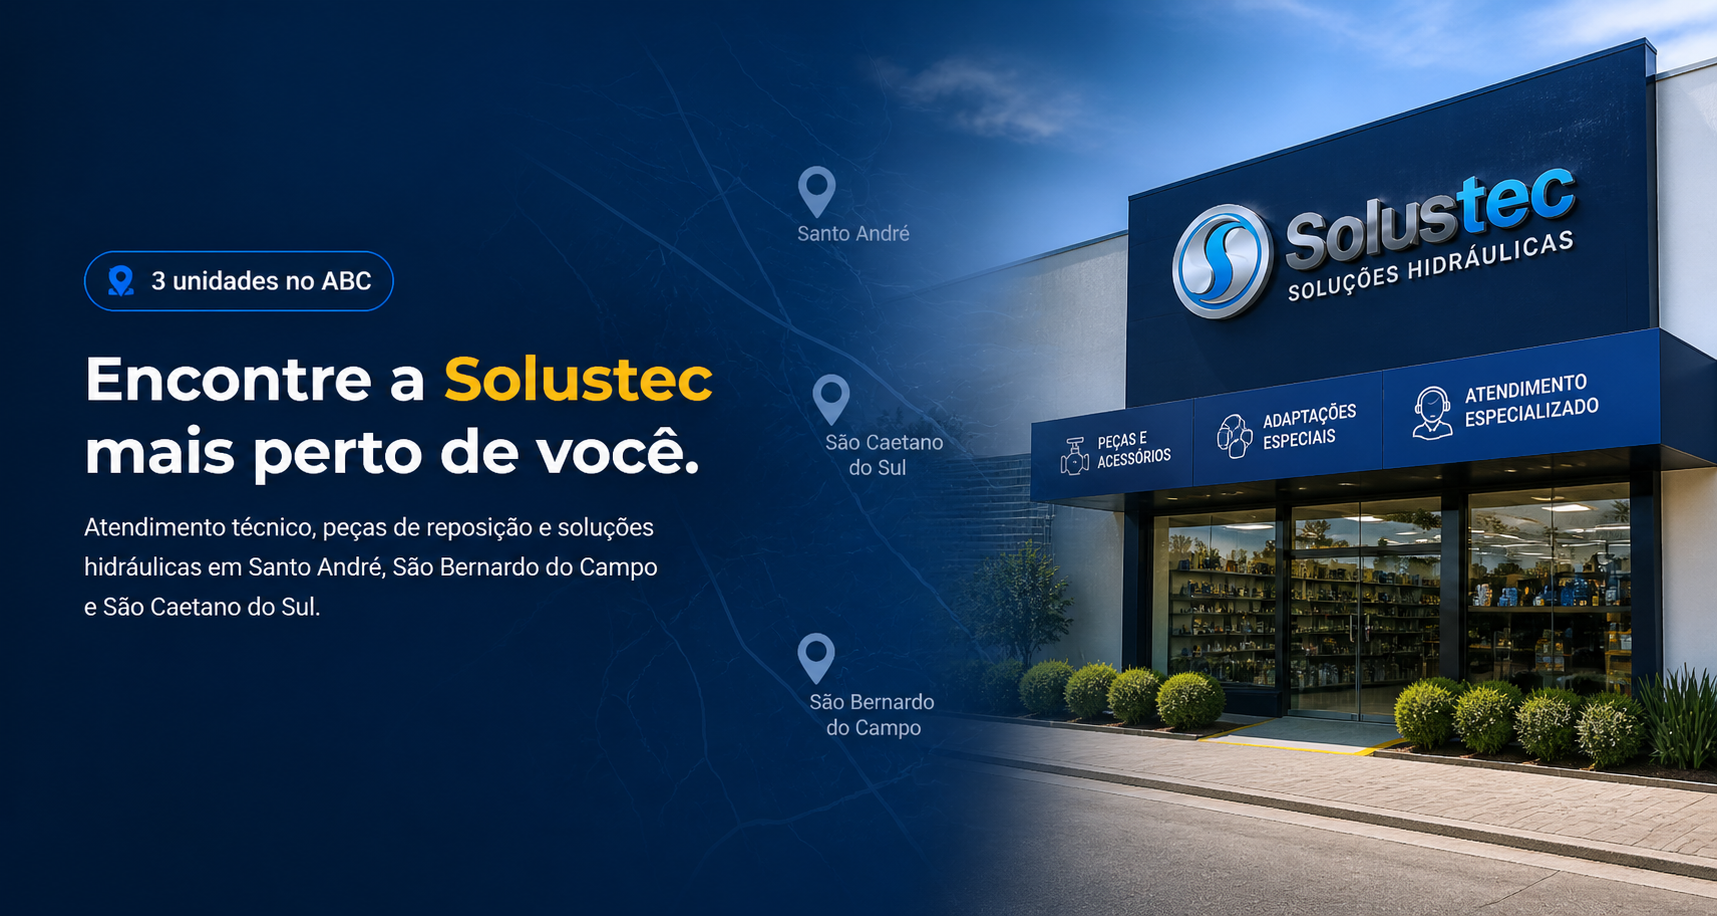
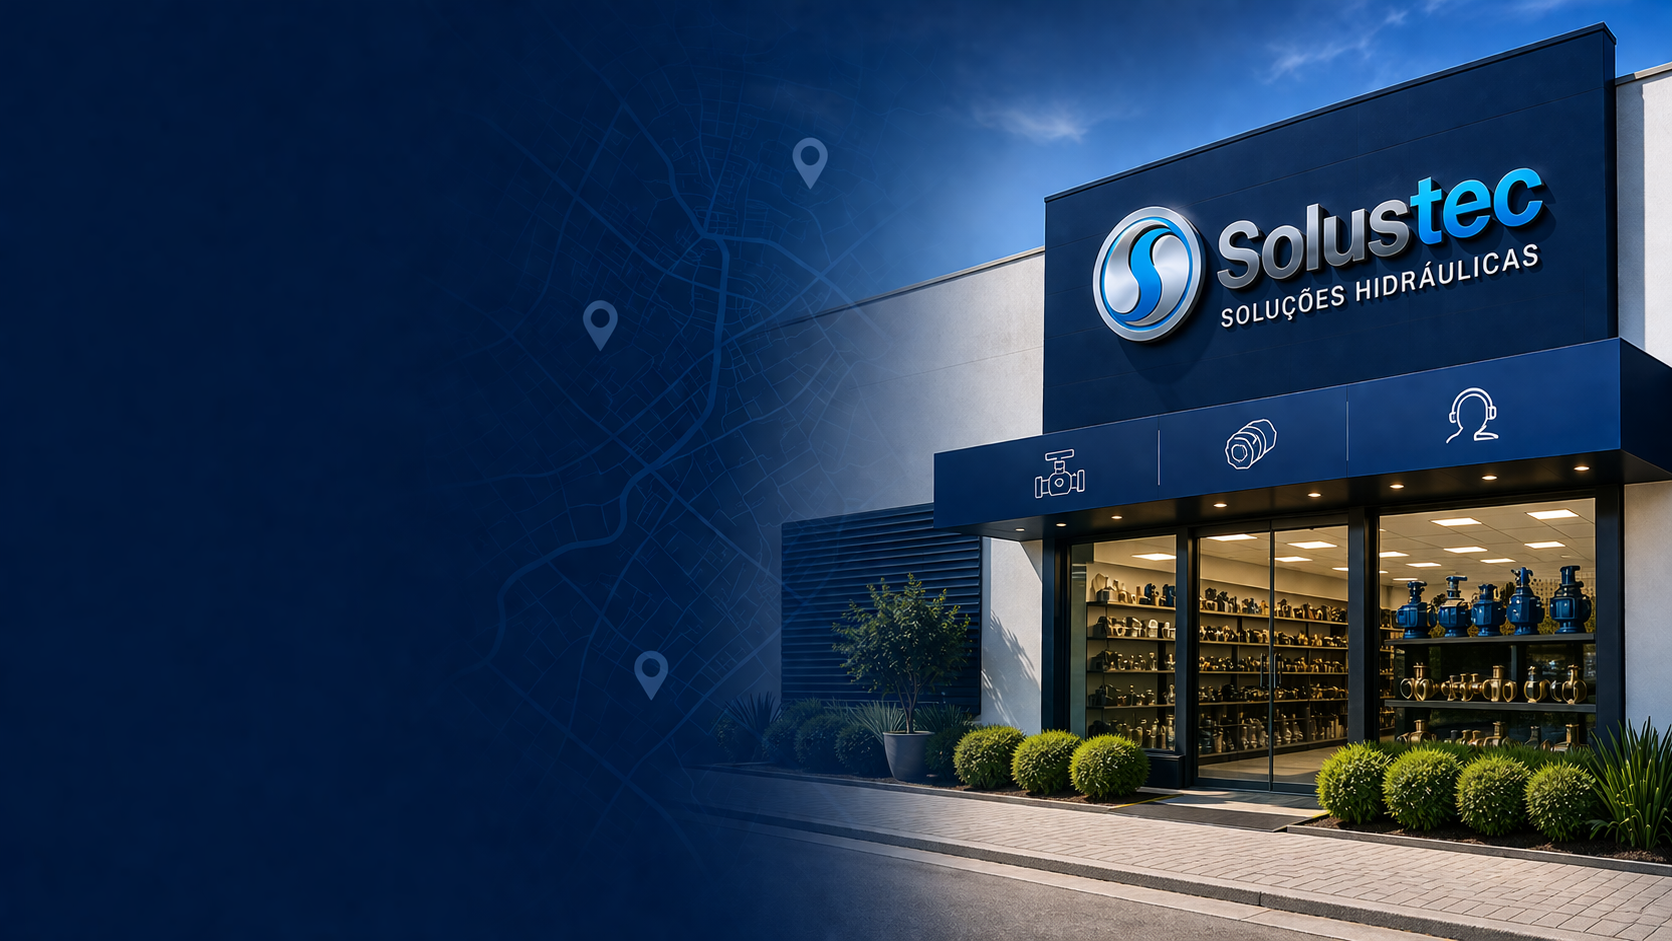
ta ficando lindo

diff --git a/style.css b/style.css
@@ -176,6 +176,17 @@ nav a:hover {
     padding: 60px;
 }
 
+.hero-unidade {
+    height: 440px;
+    background-color: #021731;
+    background-image: url(./imagens/Section\ 2.png);
+    background-size: 100%;
+    background-position: center;
+    background-repeat: no-repeat;
+    color: white;
+    padding: 60px;
+}
+
 .hero-content {
     display: flex;
     justify-content: space-between;
@@ -1010,6 +1021,38 @@ nav a:hover {
         padding: 62px 0;
         text-align: center;
     }
+
+    .unidades-hero {
+    padding: 60px 20px;
+    background-position: center;
+}
+
+/* deixa o texto centralizado no mobile */
+.unidades-hero-content {
+    margin-left: 0;
+    max-width: 100%;
+    text-align: center;
+}
+
+/* deixa o fundo mais escuro pra leitura */
+.unidades-hero::before {
+    content: "";
+    position: absolute;
+    inset: 0;
+    background: linear-gradient(
+        180deg,
+        rgba(2,23,49,0.95),
+        rgba(2,23,49,0.85),
+        rgba(2,23,49,0.75)
+    );
+}
+
+/* garante que o texto fique acima */
+.unidades-hero-content {
+    position: relative;
+    z-index: 1;
+}
+
     .hero {
     background-attachment: scroll;
     }
@@ -1086,15 +1129,19 @@ nav a:hover {
 ========================= */
 
 .unidades-hero {
-    background:#021731;
-    background-size: cover;
-    background-position: center right;
+    height: 440px;
+    background-color: #021731;
+    background-image: url(./imagens/encontre.png);
+    background-size: 100%;
+    background-position: center;
+    background-repeat: no-repeat;
     color: white;
-    padding: 90px 0;
+    padding: 60px ;
 }
 
 .unidades-hero-content {
     max-width: 990px;
+    margin-left: 2%;
 }
 
 .unidades-hero h1 {
